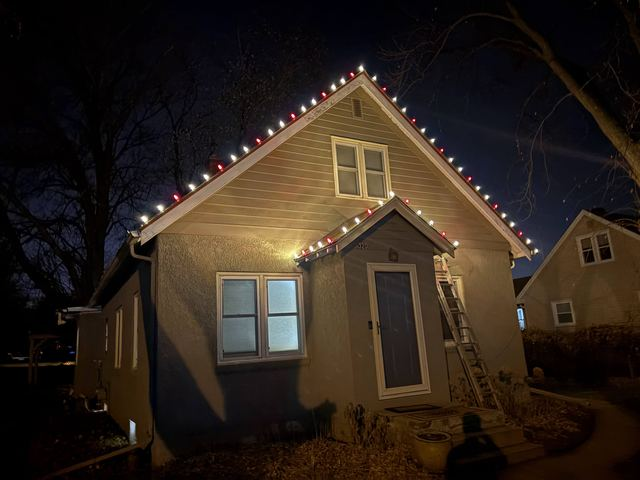
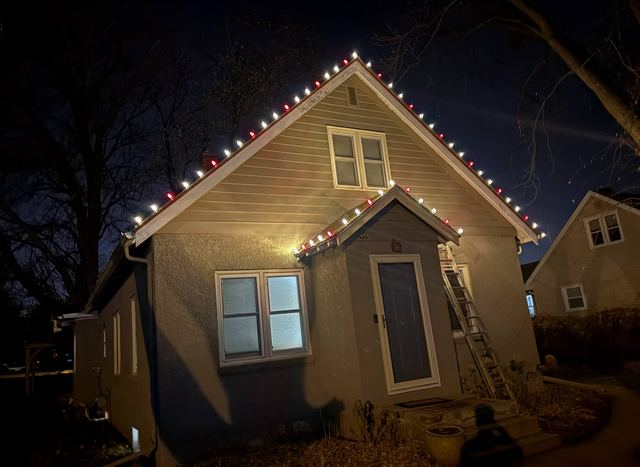
Weave the two photos into the Christmas page as visual accents
Per the owner: no "here's some jobs we did" framing and no gallery
button (these are the only holiday photos, so a gallery link
over-promised). The captioned "Real installs on real homes" two-up
section is gone. Instead, the craftsman-gables shot is a full-width
chrome-less photo break between the benefits and reviews sections, and
the candy-cane bungalow sits mid-article after the intro paragraph, so
there's something to look at while reading.

Also straightened the bungalow photo at the source — the camera was
rolled about 2.5 degrees, so every vertical (door frame, windows,
corners) leaned. Rotated and cropped to the largest clean rectangle at
full resolution; its responsive derivatives regenerated, so the gallery
copy is straightened too.

diff --git a/services/christmas-light-installation.html b/services/christmas-light-installation.html
@@ -128,15 +128,7 @@
   </section>
   <section>
     <div class="container">
-      <div class="section-head center">
-        <span class="eyebrow">Our work</span>
-        <h2>Real installs on real homes</h2>
-      </div>
-      <div class="grid cols-2 mt-3">
-        <div class="reveal"><div class="photo " style="aspect-ratio:4/3" role="img" aria-label="Red and white holiday lights installed along a bungalow's roofline at night"><span class="imgph" aria-hidden="true"><span class="ph-label"><svg viewBox="0 0 24 24" fill="none" stroke="currentColor" stroke-width="1.9" stroke-linecap="round" stroke-linejoin="round" aria-hidden="true"><rect x="3" y="4" width="18" height="16" rx="2"/><circle cx="8.5" cy="9.5" r="1.5"/><path d="m4 17 5-5 4 4 3-3 4 4"/></svg><br>Red and white holiday lights installed along a bungalow's roofline at night</span></span><picture><source type="image/webp" srcset="../assets/img/xmas-lights-candy-cane-640w.webp 640w, ../assets/img/xmas-lights-candy-cane-1200w.webp 1200w" sizes="100vw"><img class="" src="../assets/img/xmas-lights-candy-cane-1200w.jpg" srcset="../assets/img/xmas-lights-candy-cane-640w.jpg 640w, ../assets/img/xmas-lights-candy-cane-1200w.jpg 1200w" sizes="100vw" alt="Red and white holiday lights installed along a bungalow's roofline at night" width="1200" height="900" loading="lazy" decoding="async" onerror="this.remove()"></picture></div></div>
-        <div class="reveal" data-delay="1"><div class="photo " style="aspect-ratio:4/3" role="img" aria-label="White holiday lights tracing the gables of a craftsman-style home above a snow-covered driveway"><span class="imgph" aria-hidden="true"><span class="ph-label"><svg viewBox="0 0 24 24" fill="none" stroke="currentColor" stroke-width="1.9" stroke-linecap="round" stroke-linejoin="round" aria-hidden="true"><rect x="3" y="4" width="18" height="16" rx="2"/><circle cx="8.5" cy="9.5" r="1.5"/><path d="m4 17 5-5 4 4 3-3 4 4"/></svg><br>White holiday lights tracing the gables of a craftsman-style home above a snow-covered driveway</span></span><picture><source type="image/webp" srcset="../assets/img/xmas-lights-craftsman-gables-640w.webp 640w, ../assets/img/xmas-lights-craftsman-gables-1200w.webp 1200w" sizes="100vw"><img class="" src="../assets/img/xmas-lights-craftsman-gables-1200w.jpg" srcset="../assets/img/xmas-lights-craftsman-gables-640w.jpg 640w, ../assets/img/xmas-lights-craftsman-gables-1200w.jpg 1200w" sizes="100vw" alt="White holiday lights tracing the gables of a craftsman-style home above a snow-covered driveway" width="1200" height="900" loading="lazy" decoding="async" onerror="this.remove()"></picture></div></div>
-      </div>
-      <div class="center mt-3"><a class="btn btn-ghost" href="../gallery.html">See the full gallery <svg viewBox="0 0 24 24" fill="none" stroke="currentColor" stroke-width="1.9" stroke-linecap="round" stroke-linejoin="round" aria-hidden="true"><path d="M5 12h14M13 6l6 6-6 6"/></svg></a></div>
+      <div class="reveal"><div class="photo " style="aspect-ratio:21/9" role="img" aria-label="White holiday lights tracing the gables of a craftsman-style home above a snow-covered driveway"><span class="imgph" aria-hidden="true"><span class="ph-label"><svg viewBox="0 0 24 24" fill="none" stroke="currentColor" stroke-width="1.9" stroke-linecap="round" stroke-linejoin="round" aria-hidden="true"><rect x="3" y="4" width="18" height="16" rx="2"/><circle cx="8.5" cy="9.5" r="1.5"/><path d="m4 17 5-5 4 4 3-3 4 4"/></svg><br>White holiday lights tracing the gables of a craftsman-style home above a snow-covered driveway</span></span><picture><source type="image/webp" srcset="../assets/img/xmas-lights-craftsman-gables-640w.webp 640w, ../assets/img/xmas-lights-craftsman-gables-1200w.webp 1200w" sizes="100vw"><img class="" src="../assets/img/xmas-lights-craftsman-gables-1200w.jpg" srcset="../assets/img/xmas-lights-craftsman-gables-640w.jpg 640w, ../assets/img/xmas-lights-craftsman-gables-1200w.jpg 1200w" sizes="100vw" alt="White holiday lights tracing the gables of a craftsman-style home above a snow-covered driveway" width="1200" height="900" loading="lazy" decoding="async" onerror="this.remove()"></picture></div></div>
     </div>
   </section>
 
@@ -161,6 +153,7 @@
         <div class="prose reveal">
           <h2 class="mt-0">Christmas Light Installation at Barta Window Washing</h2>
           <p>The magic of a beautifully lit home — without a single trip up a frozen ladder. Barta designs a custom holiday display for your rooflines, walkways, trees, and shrubs, installs premium commercial-grade lighting, and keeps it shining all season. When the holidays end, we take everything down and store it for next year. You enjoy the lights; we handle everything else.</p>
+          <div style="margin:26px 0"><div class="photo " style="aspect-ratio:3/2" role="img" aria-label="Red and white holiday lights installed along a bungalow's roofline at night"><span class="imgph" aria-hidden="true"><span class="ph-label"><svg viewBox="0 0 24 24" fill="none" stroke="currentColor" stroke-width="1.9" stroke-linecap="round" stroke-linejoin="round" aria-hidden="true"><rect x="3" y="4" width="18" height="16" rx="2"/><circle cx="8.5" cy="9.5" r="1.5"/><path d="m4 17 5-5 4 4 3-3 4 4"/></svg><br>Red and white holiday lights installed along a bungalow's roofline at night</span></span><picture><source type="image/webp" srcset="../assets/img/xmas-lights-candy-cane-640w.webp 640w, ../assets/img/xmas-lights-candy-cane-1200w.webp 1200w" sizes="100vw"><img class="" src="../assets/img/xmas-lights-candy-cane-1200w.jpg" srcset="../assets/img/xmas-lights-candy-cane-640w.jpg 640w, ../assets/img/xmas-lights-candy-cane-1200w.jpg 1200w" sizes="100vw" alt="Red and white holiday lights installed along a bungalow's roofline at night" width="1200" height="877" loading="lazy" decoding="async" onerror="this.remove()"></picture></div></div>
           <h3>The benefits you'll notice</h3>
           <ul class="checklist"><li><svg viewBox="0 0 24 24" fill="none" stroke="currentColor" stroke-width="1.9" stroke-linecap="round" stroke-linejoin="round" aria-hidden="true"><circle cx="12" cy="12" r="9"/><path d="m8.5 12 2.5 2.5 4.5-5"/></svg> <span><strong>Custom-cut strands:</strong> Every strand is measured and cut to your roofline and peaks — no extra lights or cords hanging off your home.</span></li><li><svg viewBox="0 0 24 24" fill="none" stroke="currentColor" stroke-width="1.9" stroke-linecap="round" stroke-linejoin="round" aria-hidden="true"><circle cx="12" cy="12" r="9"/><path d="m8.5 12 2.5 2.5 4.5-5"/></svg> <span><strong>Premium commercial-grade LED bulbs:</strong> Bright, energy-efficient LED bulbs built to outlast a Minnesota winter and look sharp season after season.</span></li><li><svg viewBox="0 0 24 24" fill="none" stroke="currentColor" stroke-width="1.9" stroke-linecap="round" stroke-linejoin="round" aria-hidden="true"><circle cx="12" cy="12" r="9"/><path d="m8.5 12 2.5 2.5 4.5-5"/></svg> <span><strong>Takedown &amp; storage included:</strong> When the season's over, we take it all down and store it for you — built into your price, not an extra add-on.</span></li><li><svg viewBox="0 0 24 24" fill="none" stroke="currentColor" stroke-width="1.9" stroke-linecap="round" stroke-linejoin="round" aria-hidden="true"><circle cx="12" cy="12" r="9"/><path d="m8.5 12 2.5 2.5 4.5-5"/></svg> <span><strong>Clips that last:</strong> Heavy-duty clips grip any roofline, shingle, or gutter without damage — built to hold through the hardest winter months.</span></li><li><svg viewBox="0 0 24 24" fill="none" stroke="currentColor" stroke-width="1.9" stroke-linecap="round" stroke-linejoin="round" aria-hidden="true"><circle cx="12" cy="12" r="9"/><path d="m8.5 12 2.5 2.5 4.5-5"/></svg> <span><strong>Proper safety equipment:</strong> Our insured crew climbs so you don't have to — full safety gear every time, so nobody's risking a fall on an icy ladder.</span></li><li><svg viewBox="0 0 24 24" fill="none" stroke="currentColor" stroke-width="1.9" stroke-linecap="round" stroke-linejoin="round" aria-hidden="true"><circle cx="12" cy="12" r="9"/><path d="m8.5 12 2.5 2.5 4.5-5"/></svg> <span><strong>Upfront, honest pricing:</strong> Clear pricing before we start — no surprise fees and no pressure, just an honest quote for a beautifully lit home.</span></li></ul>
           <h3>What's included</h3>

diff --git a/gallery.html b/gallery.html
@@ -114,7 +114,7 @@
   <span class="ba-handle"></span>
   <span class="ba-knob"><svg viewBox="0 0 24 24" fill="none" stroke="currentColor" stroke-width="1.9" stroke-linecap="round" stroke-linejoin="round" aria-hidden="true"><path d="M12 3v18M8 7 4 11l4 4M16 7l4 4-4 4"/></svg></span>
   <input class="ba-range" type="range" min="0" max="100" value="50" aria-label="Reveal more of the before or after image">
-</div></figure><figure class="reveal"><picture><source type="image/webp" srcset="assets/img/svc-hand-scrubbing-640w.webp 640w, assets/img/svc-hand-scrubbing-1200w.webp 1200w" sizes="(max-width: 760px) 50vw, 33vw"><img class="" src="assets/img/svc-hand-scrubbing-1200w.jpg" srcset="assets/img/svc-hand-scrubbing-640w.jpg 640w, assets/img/svc-hand-scrubbing-1200w.jpg 1200w" sizes="(max-width: 760px) 50vw, 33vw" alt="Hand-scrubbing a window pane with an abrasive pad" width="1126" height="1499" loading="lazy" decoding="async"></picture></figure><figure class="reveal"><picture><source type="image/webp" srcset="assets/img/svc-christmas-light-installation-640w.webp 640w, assets/img/svc-christmas-light-installation-1200w.webp 1200w" sizes="(max-width: 760px) 50vw, 33vw"><img class="" src="assets/img/svc-christmas-light-installation-1200w.jpg" srcset="assets/img/svc-christmas-light-installation-640w.jpg 640w, assets/img/svc-christmas-light-installation-1200w.jpg 1200w" sizes="(max-width: 760px) 50vw, 33vw" alt="Warm white holiday lights installed along a home's roofline at night" width="1200" height="1600" loading="lazy" decoding="async"></picture></figure><figure class="reveal"><picture><source type="image/webp" srcset="assets/img/xmas-lights-candy-cane-640w.webp 640w, assets/img/xmas-lights-candy-cane-1200w.webp 1200w" sizes="(max-width: 760px) 50vw, 33vw"><img class="" src="assets/img/xmas-lights-candy-cane-1200w.jpg" srcset="assets/img/xmas-lights-candy-cane-640w.jpg 640w, assets/img/xmas-lights-candy-cane-1200w.jpg 1200w" sizes="(max-width: 760px) 50vw, 33vw" alt="Red and white holiday lights installed along a bungalow's roofline at night" width="1200" height="900" loading="lazy" decoding="async"></picture></figure><figure class="reveal"><picture><source type="image/webp" srcset="assets/img/xmas-lights-craftsman-gables-640w.webp 640w, assets/img/xmas-lights-craftsman-gables-1200w.webp 1200w" sizes="(max-width: 760px) 50vw, 33vw"><img class="" src="assets/img/xmas-lights-craftsman-gables-1200w.jpg" srcset="assets/img/xmas-lights-craftsman-gables-640w.jpg 640w, assets/img/xmas-lights-craftsman-gables-1200w.jpg 1200w" sizes="(max-width: 760px) 50vw, 33vw" alt="White holiday lights tracing the gables of a craftsman-style home above a snow-covered driveway" width="1200" height="900" loading="lazy" decoding="async"></picture></figure><figure class="gallery-ba reveal"><div class="ba" role="group" aria-label="Before and after comparison slider">
+</div></figure><figure class="reveal"><picture><source type="image/webp" srcset="assets/img/svc-hand-scrubbing-640w.webp 640w, assets/img/svc-hand-scrubbing-1200w.webp 1200w" sizes="(max-width: 760px) 50vw, 33vw"><img class="" src="assets/img/svc-hand-scrubbing-1200w.jpg" srcset="assets/img/svc-hand-scrubbing-640w.jpg 640w, assets/img/svc-hand-scrubbing-1200w.jpg 1200w" sizes="(max-width: 760px) 50vw, 33vw" alt="Hand-scrubbing a window pane with an abrasive pad" width="1126" height="1499" loading="lazy" decoding="async"></picture></figure><figure class="reveal"><picture><source type="image/webp" srcset="assets/img/svc-christmas-light-installation-640w.webp 640w, assets/img/svc-christmas-light-installation-1200w.webp 1200w" sizes="(max-width: 760px) 50vw, 33vw"><img class="" src="assets/img/svc-christmas-light-installation-1200w.jpg" srcset="assets/img/svc-christmas-light-installation-640w.jpg 640w, assets/img/svc-christmas-light-installation-1200w.jpg 1200w" sizes="(max-width: 760px) 50vw, 33vw" alt="Warm white holiday lights installed along a home's roofline at night" width="1200" height="1600" loading="lazy" decoding="async"></picture></figure><figure class="reveal"><picture><source type="image/webp" srcset="assets/img/xmas-lights-candy-cane-640w.webp 640w, assets/img/xmas-lights-candy-cane-1200w.webp 1200w" sizes="(max-width: 760px) 50vw, 33vw"><img class="" src="assets/img/xmas-lights-candy-cane-1200w.jpg" srcset="assets/img/xmas-lights-candy-cane-640w.jpg 640w, assets/img/xmas-lights-candy-cane-1200w.jpg 1200w" sizes="(max-width: 760px) 50vw, 33vw" alt="Red and white holiday lights installed along a bungalow's roofline at night" width="1200" height="877" loading="lazy" decoding="async"></picture></figure><figure class="reveal"><picture><source type="image/webp" srcset="assets/img/xmas-lights-craftsman-gables-640w.webp 640w, assets/img/xmas-lights-craftsman-gables-1200w.webp 1200w" sizes="(max-width: 760px) 50vw, 33vw"><img class="" src="assets/img/xmas-lights-craftsman-gables-1200w.jpg" srcset="assets/img/xmas-lights-craftsman-gables-640w.jpg 640w, assets/img/xmas-lights-craftsman-gables-1200w.jpg 1200w" sizes="(max-width: 760px) 50vw, 33vw" alt="White holiday lights tracing the gables of a craftsman-style home above a snow-covered driveway" width="1200" height="900" loading="lazy" decoding="async"></picture></figure><figure class="gallery-ba reveal"><div class="ba" role="group" aria-label="Before and after comparison slider">
   <picture><source type="image/webp" srcset="assets/img/ba-gutter-before-640w.webp 640w, assets/img/ba-gutter-before-1200w.webp 1200w" sizes="(max-width: 760px) 50vw, 33vw"><img class="ba-img ba-before" src="assets/img/ba-gutter-before-1200w.jpg" srcset="assets/img/ba-gutter-before-640w.jpg 640w, assets/img/ba-gutter-before-1200w.jpg 1200w" sizes="(max-width: 760px) 50vw, 33vw" alt="Before professional cleaning — visible dirt, algae, and water spots" width="1100" height="1466" loading="lazy" decoding="async"></picture>
   <picture><source type="image/webp" srcset="assets/img/ba-gutter-after-640w.webp 640w, assets/img/ba-gutter-after-1200w.webp 1200w" sizes="(max-width: 760px) 50vw, 33vw"><img class="ba-img ba-after" src="assets/img/ba-gutter-after-1200w.jpg" srcset="assets/img/ba-gutter-after-640w.jpg 640w, assets/img/ba-gutter-after-1200w.jpg 1200w" sizes="(max-width: 760px) 50vw, 33vw" alt="After Barta professional cleaning — bright, spotless, like-new surface" width="1100" height="1466" loading="lazy" decoding="async"></picture>
   <span class="ba-label before">Before</span>

diff --git a/services/exterior-window-cleaning.html b/services/exterior-window-cleaning.html
@@ -153,6 +153,7 @@
         <div class="prose reveal">
           <h2 class="mt-0">Exterior Window Cleaning at Barta Window Washing</h2>
           <p>The outside of your glass takes the brunt of Minnesota's weather — pollen, rain spots, and road grime dull your view from the street and from inside. Barta's exterior window cleaning uses whatever approach fits each window best — hand-detailing, a ladder, or a water-fed pole for second-story and hard-to-reach glass — finishing with a wipe-down of every sill and frame so the whole window looks new.</p>
+          
           <h3>The benefits you'll notice</h3>
           <ul class="checklist"><li><svg viewBox="0 0 24 24" fill="none" stroke="currentColor" stroke-width="1.9" stroke-linecap="round" stroke-linejoin="round" aria-hidden="true"><circle cx="12" cy="12" r="9"/><path d="m8.5 12 2.5 2.5 4.5-5"/></svg> <span><strong>Streak-free guarantee:</strong> We don't leave until every pane is spotless — or we come back free.</span></li><li><svg viewBox="0 0 24 24" fill="none" stroke="currentColor" stroke-width="1.9" stroke-linecap="round" stroke-linejoin="round" aria-hidden="true"><circle cx="12" cy="12" r="9"/><path d="m8.5 12 2.5 2.5 4.5-5"/></svg> <span><strong>Water-fed pole technology:</strong> Purified water rinses glass cleaner and keeps it clearer, longer.</span></li><li><svg viewBox="0 0 24 24" fill="none" stroke="currentColor" stroke-width="1.9" stroke-linecap="round" stroke-linejoin="round" aria-hidden="true"><circle cx="12" cy="12" r="9"/><path d="m8.5 12 2.5 2.5 4.5-5"/></svg> <span><strong>Safer upper-story reach:</strong> Water-fed poles mean less ladder work on second-story glass — safer for our crew and your landscaping.</span></li><li><svg viewBox="0 0 24 24" fill="none" stroke="currentColor" stroke-width="1.9" stroke-linecap="round" stroke-linejoin="round" aria-hidden="true"><circle cx="12" cy="12" r="9"/><path d="m8.5 12 2.5 2.5 4.5-5"/></svg> <span><strong>Frames &amp; sills detailed:</strong> We hand-wipe every frame and sill on every visit — the parts most companies skip.</span></li></ul>
           <h3>What's included</h3>

diff --git a/services/commercial-cleaning.html b/services/commercial-cleaning.html
@@ -153,6 +153,7 @@
         <div class="prose reveal">
           <h2 class="mt-0">Commercial Cleaning at Barta Window Washing</h2>
           <p>Your building is the first impression every customer, tenant, and partner forms about your business. Streaked windows and grimy entrances quietly cost you — clean ones quietly win. Barta delivers dependable, scheduled commercial cleaning that keeps your property looking its absolute best, without you having to manage it. We work around your hours, carry full insurance coverage, and assign a single account contact so service is effortless.</p>
+          
           <h3>The benefits you'll notice</h3>
           <ul class="checklist"><li><svg viewBox="0 0 24 24" fill="none" stroke="currentColor" stroke-width="1.9" stroke-linecap="round" stroke-linejoin="round" aria-hidden="true"><circle cx="12" cy="12" r="9"/><path d="m8.5 12 2.5 2.5 4.5-5"/></svg> <span><strong>One reliable vendor:</strong> Every building, every service, one point of contact.</span></li><li><svg viewBox="0 0 24 24" fill="none" stroke="currentColor" stroke-width="1.9" stroke-linecap="round" stroke-linejoin="round" aria-hidden="true"><circle cx="12" cy="12" r="9"/><path d="m8.5 12 2.5 2.5 4.5-5"/></svg> <span><strong>Fully insured:</strong> Comprehensive insurance coverage on every job, for your property and our team.</span></li><li><svg viewBox="0 0 24 24" fill="none" stroke="currentColor" stroke-width="1.9" stroke-linecap="round" stroke-linejoin="round" aria-hidden="true"><circle cx="12" cy="12" r="9"/><path d="m8.5 12 2.5 2.5 4.5-5"/></svg> <span><strong>Flexible scheduling:</strong> We work around your hours and your tenants, day or night.</span></li><li><svg viewBox="0 0 24 24" fill="none" stroke="currentColor" stroke-width="1.9" stroke-linecap="round" stroke-linejoin="round" aria-hidden="true"><circle cx="12" cy="12" r="9"/><path d="m8.5 12 2.5 2.5 4.5-5"/></svg> <span><strong>Fast quote turnaround:</strong> Clear, upfront commercial quotes typically within 24 hours.</span></li></ul>
           <h3>What's included</h3>

diff --git a/services/interior-window-cleaning.html b/services/interior-window-cleaning.html
@@ -153,6 +153,7 @@
         <div class="prose reveal">
           <h2 class="mt-0">Interior Window Cleaning at Barta Window Washing</h2>
           <p>Interior glass takes a different kind of wear than the outside — fingerprints on the slider, dust along the sill, everyday grime that builds up on the glass you're actually looking through all day. Barta hand-details every pane, frame, and sill room by room, laying down drop cloths and working carefully so your floors and furnishings stay protected the whole time.</p>
+          
           <h3>The benefits you'll notice</h3>
           <ul class="checklist"><li><svg viewBox="0 0 24 24" fill="none" stroke="currentColor" stroke-width="1.9" stroke-linecap="round" stroke-linejoin="round" aria-hidden="true"><circle cx="12" cy="12" r="9"/><path d="m8.5 12 2.5 2.5 4.5-5"/></svg> <span><strong>Streak-free guarantee:</strong> We don't leave until every pane is spotless — or we come back free.</span></li><li><svg viewBox="0 0 24 24" fill="none" stroke="currentColor" stroke-width="1.9" stroke-linecap="round" stroke-linejoin="round" aria-hidden="true"><circle cx="12" cy="12" r="9"/><path d="m8.5 12 2.5 2.5 4.5-5"/></svg> <span><strong>Furniture-safe process:</strong> Drop cloths and careful technique keep your floors and furnishings protected.</span></li><li><svg viewBox="0 0 24 24" fill="none" stroke="currentColor" stroke-width="1.9" stroke-linecap="round" stroke-linejoin="round" aria-hidden="true"><circle cx="12" cy="12" r="9"/><path d="m8.5 12 2.5 2.5 4.5-5"/></svg> <span><strong>Every sill &amp; frame detailed:</strong> We hand-wipe the parts most companies skip.</span></li><li><svg viewBox="0 0 24 24" fill="none" stroke="currentColor" stroke-width="1.9" stroke-linecap="round" stroke-linejoin="round" aria-hidden="true"><circle cx="12" cy="12" r="9"/><path d="m8.5 12 2.5 2.5 4.5-5"/></svg> <span><strong>We work around your home:</strong> Light furniture, blinds, pets, kids — we adapt to whatever's happening in your house that day.</span></li></ul>
           <h3>What's included</h3>

diff --git a/services/track-detailing.html b/services/track-detailing.html
@@ -153,6 +153,7 @@
         <div class="prose reveal">
           <h2 class="mt-0">Track Detailing at Barta Window Washing</h2>
           <p>Spotless glass still looks unfinished sitting above a track full of dirt and debris. We open the window, vacuum out the dry debris, work in a cleaning solution, hand-scrub every channel with a brush, vacuum up the wet residue, then hand-detail and wipe each track clean — so your windows look as good up close as they do from across the room, and glide smoothly again.</p>
+          
           <h3>The benefits you'll notice</h3>
           <ul class="checklist"><li><svg viewBox="0 0 24 24" fill="none" stroke="currentColor" stroke-width="1.9" stroke-linecap="round" stroke-linejoin="round" aria-hidden="true"><circle cx="12" cy="12" r="9"/><path d="m8.5 12 2.5 2.5 4.5-5"/></svg> <span><strong>Built-up grime, gone:</strong> Years of dirt, dead bugs, and grit removed from every track.</span></li><li><svg viewBox="0 0 24 24" fill="none" stroke="currentColor" stroke-width="1.9" stroke-linecap="round" stroke-linejoin="round" aria-hidden="true"><circle cx="12" cy="12" r="9"/><path d="m8.5 12 2.5 2.5 4.5-5"/></svg> <span><strong>Smoother-sliding windows:</strong> Clean tracks mean windows and screens glide the way they should.</span></li><li><svg viewBox="0 0 24 24" fill="none" stroke="currentColor" stroke-width="1.9" stroke-linecap="round" stroke-linejoin="round" aria-hidden="true"><circle cx="12" cy="12" r="9"/><path d="m8.5 12 2.5 2.5 4.5-5"/></svg> <span><strong>Hand-detailed, not just vacuumed:</strong> We get into the corners other services skip.</span></li><li><svg viewBox="0 0 24 24" fill="none" stroke="currentColor" stroke-width="1.9" stroke-linecap="round" stroke-linejoin="round" aria-hidden="true"><circle cx="12" cy="12" r="9"/><path d="m8.5 12 2.5 2.5 4.5-5"/></svg> <span><strong>Pairs perfectly with window cleaning:</strong> The finishing touch that makes freshly cleaned glass look complete.</span></li></ul>
           <h3>What's included</h3>

diff --git a/services/house-washing.html b/services/house-washing.html
@@ -153,6 +153,7 @@
         <div class="prose reveal">
           <h2 class="mt-0">House Washing at Barta Window Washing</h2>
           <p>That green and gray film creeping across the north side of your home is living algae — and rinsing it off only hides it for a few weeks. Barta's house washing combines low-pressure soft washing with professional-grade, plant-safe solutions that kill organic growth at the source, so your siding stays cleaner far longer and looks years younger.</p>
+          
           <h3>The benefits you'll notice</h3>
           <ul class="checklist"><li><svg viewBox="0 0 24 24" fill="none" stroke="currentColor" stroke-width="1.9" stroke-linecap="round" stroke-linejoin="round" aria-hidden="true"><circle cx="12" cy="12" r="9"/><path d="m8.5 12 2.5 2.5 4.5-5"/></svg> <span><strong>Whole-home refresh:</strong> Siding, soffits, fascia, trim, and eaves cleaned top to bottom.</span></li><li><svg viewBox="0 0 24 24" fill="none" stroke="currentColor" stroke-width="1.9" stroke-linecap="round" stroke-linejoin="round" aria-hidden="true"><circle cx="12" cy="12" r="9"/><path d="m8.5 12 2.5 2.5 4.5-5"/></svg> <span><strong>Safe for every surface:</strong> Low-pressure soft washing protects siding, paint, and landscaping.</span></li><li><svg viewBox="0 0 24 24" fill="none" stroke="currentColor" stroke-width="1.9" stroke-linecap="round" stroke-linejoin="round" aria-hidden="true"><circle cx="12" cy="12" r="9"/><path d="m8.5 12 2.5 2.5 4.5-5"/></svg> <span><strong>Kills the green, not just rinses:</strong> Our solution treats algae and mildew at the root.</span></li><li><svg viewBox="0 0 24 24" fill="none" stroke="currentColor" stroke-width="1.9" stroke-linecap="round" stroke-linejoin="round" aria-hidden="true"><circle cx="12" cy="12" r="9"/><path d="m8.5 12 2.5 2.5 4.5-5"/></svg> <span><strong>Boost curb appeal &amp; value:</strong> The single highest-impact exterior upgrade you can make.</span></li></ul>
           <h3>What's included</h3>

diff --git a/services/pressure-washing.html b/services/pressure-washing.html
@@ -153,6 +153,7 @@
         <div class="prose reveal">
           <h2 class="mt-0">Pressure Washing at Barta Window Washing</h2>
           <p>Concrete, brick, and pavers collect oil, tire marks, algae, and embedded grime that make even a well-kept home look tired. Barta's pressure washing uses commercial equipment and the right pressure for each surface — plus surface cleaners that leave wide, even, stripe-free results across driveways, patios, sidewalks, and pool decks.</p>
+          
           <h3>The benefits you'll notice</h3>
           <ul class="checklist"><li><svg viewBox="0 0 24 24" fill="none" stroke="currentColor" stroke-width="1.9" stroke-linecap="round" stroke-linejoin="round" aria-hidden="true"><circle cx="12" cy="12" r="9"/><path d="m8.5 12 2.5 2.5 4.5-5"/></svg> <span><strong>Like-new surfaces:</strong> Driveways, patios, and walkways come back to their original color.</span></li><li><svg viewBox="0 0 24 24" fill="none" stroke="currentColor" stroke-width="1.9" stroke-linecap="round" stroke-linejoin="round" aria-hidden="true"><circle cx="12" cy="12" r="9"/><path d="m8.5 12 2.5 2.5 4.5-5"/></svg> <span><strong>Surface-safe pressure:</strong> We dial pressure and nozzles to each material — no etching or gouging.</span></li><li><svg viewBox="0 0 24 24" fill="none" stroke="currentColor" stroke-width="1.9" stroke-linecap="round" stroke-linejoin="round" aria-hidden="true"><circle cx="12" cy="12" r="9"/><path d="m8.5 12 2.5 2.5 4.5-5"/></svg> <span><strong>Oil &amp; rust treatment:</strong> Targeted pre-treatment lifts stains pressure alone can't.</span></li><li><svg viewBox="0 0 24 24" fill="none" stroke="currentColor" stroke-width="1.9" stroke-linecap="round" stroke-linejoin="round" aria-hidden="true"><circle cx="12" cy="12" r="9"/><path d="m8.5 12 2.5 2.5 4.5-5"/></svg> <span><strong>Curb appeal that lasts:</strong> Clean hardscapes instantly lift the look and value of your home.</span></li></ul>
           <h3>What's included</h3>

diff --git a/services/hard-water-stain-removal.html b/services/hard-water-stain-removal.html
@@ -153,6 +153,7 @@
         <div class="prose reveal">
           <h2 class="mt-0">Hard Water Stain Removal at Barta Window Washing</h2>
           <p>Sprinkler overspray, runoff, and Minnesota's hard water leave behind mineral deposits that bond to glass and fog it permanently if ignored. Barta uses professional restoration compounds and proven technique to dissolve and lift these deposits — bringing back clarity that standard window cleaning simply cannot — and we can apply a protective treatment to slow future buildup.</p>
+          
           <h3>The benefits you'll notice</h3>
           <ul class="checklist"><li><svg viewBox="0 0 24 24" fill="none" stroke="currentColor" stroke-width="1.9" stroke-linecap="round" stroke-linejoin="round" aria-hidden="true"><circle cx="12" cy="12" r="9"/><path d="m8.5 12 2.5 2.5 4.5-5"/></svg> <span><strong>Restore clear glass:</strong> Remove the cloudy haze sprinklers and minerals leave behind.</span></li><li><svg viewBox="0 0 24 24" fill="none" stroke="currentColor" stroke-width="1.9" stroke-linecap="round" stroke-linejoin="round" aria-hidden="true"><circle cx="12" cy="12" r="9"/><path d="m8.5 12 2.5 2.5 4.5-5"/></svg> <span><strong>Save the windows:</strong> Far cheaper than replacing etched or stained glass.</span></li><li><svg viewBox="0 0 24 24" fill="none" stroke="currentColor" stroke-width="1.9" stroke-linecap="round" stroke-linejoin="round" aria-hidden="true"><circle cx="12" cy="12" r="9"/><path d="m8.5 12 2.5 2.5 4.5-5"/></svg> <span><strong>Specialized process:</strong> Professional compounds and technique, not guesswork.</span></li><li><svg viewBox="0 0 24 24" fill="none" stroke="currentColor" stroke-width="1.9" stroke-linecap="round" stroke-linejoin="round" aria-hidden="true"><circle cx="12" cy="12" r="9"/><path d="m8.5 12 2.5 2.5 4.5-5"/></svg> <span><strong>Protective options:</strong> Ask about coatings that help repel future spotting.</span></li></ul>
           <h3>What's included</h3>

diff --git a/services/gutter-cleaning.html b/services/gutter-cleaning.html
@@ -153,6 +153,7 @@
         <div class="prose reveal">
           <h2 class="mt-0">Gutter Cleaning at Barta Window Washing</h2>
           <p>Minnesota's freeze-thaw cycles, maple seeds, and autumn leaves turn gutters into clogged troughs that send water where it doesn't belong. Barta clears every gutter and downspout by hand and blower, then flushes the system to confirm proper flow — protecting your fascia, foundation, and landscaping season after season.</p>
+          
           <h3>The benefits you'll notice</h3>
           <ul class="checklist"><li><svg viewBox="0 0 24 24" fill="none" stroke="currentColor" stroke-width="1.9" stroke-linecap="round" stroke-linejoin="round" aria-hidden="true"><circle cx="12" cy="12" r="9"/><path d="m8.5 12 2.5 2.5 4.5-5"/></svg> <span><strong>Protect your foundation:</strong> Free-flowing gutters route water away from your home, not into it.</span></li><li><svg viewBox="0 0 24 24" fill="none" stroke="currentColor" stroke-width="1.9" stroke-linecap="round" stroke-linejoin="round" aria-hidden="true"><circle cx="12" cy="12" r="9"/><path d="m8.5 12 2.5 2.5 4.5-5"/></svg> <span><strong>Hand-cleared gutters:</strong> We clear debris by hand and blower, so nothing stays clogged in the corners.</span></li><li><svg viewBox="0 0 24 24" fill="none" stroke="currentColor" stroke-width="1.9" stroke-linecap="round" stroke-linejoin="round" aria-hidden="true"><circle cx="12" cy="12" r="9"/><path d="m8.5 12 2.5 2.5 4.5-5"/></svg> <span><strong>Downspouts flushed:</strong> We confirm water flows freely from gutter to ground.</span></li><li><svg viewBox="0 0 24 24" fill="none" stroke="currentColor" stroke-width="1.9" stroke-linecap="round" stroke-linejoin="round" aria-hidden="true"><circle cx="12" cy="12" r="9"/><path d="m8.5 12 2.5 2.5 4.5-5"/></svg> <span><strong>Free roof &amp; gutter check:</strong> We'll let you know if we spot any damage on your shingles or gutters.</span></li></ul>
           <h3>What's included</h3>

diff --git a/services/soft-washing.html b/services/soft-washing.html
@@ -153,6 +153,7 @@
         <div class="prose reveal">
           <h2 class="mt-0">Soft Washing at Barta Window Washing</h2>
           <p>High pressure has no place on stucco, screens, or painted surfaces. Soft washing applies specially formulated, biodegradable solutions at low pressure to dissolve algae, mold, mildew, and bacteria — then gently rinses everything clean. It's the method siding manufacturers actually recommend for these delicate surfaces.</p>
+          
           <h3>The benefits you'll notice</h3>
           <ul class="checklist"><li><svg viewBox="0 0 24 24" fill="none" stroke="currentColor" stroke-width="1.9" stroke-linecap="round" stroke-linejoin="round" aria-hidden="true"><circle cx="12" cy="12" r="9"/><path d="m8.5 12 2.5 2.5 4.5-5"/></svg> <span><strong>Damage-free cleaning:</strong> Low pressure means no etched stucco, stripped paint, or damaged siding.</span></li><li><svg viewBox="0 0 24 24" fill="none" stroke="currentColor" stroke-width="1.9" stroke-linecap="round" stroke-linejoin="round" aria-hidden="true"><circle cx="12" cy="12" r="9"/><path d="m8.5 12 2.5 2.5 4.5-5"/></svg> <span><strong>Kills at the root:</strong> We treat algae, mold, and mildew at the source, not just knock it off the surface.</span></li><li><svg viewBox="0 0 24 24" fill="none" stroke="currentColor" stroke-width="1.9" stroke-linecap="round" stroke-linejoin="round" aria-hidden="true"><circle cx="12" cy="12" r="9"/><path d="m8.5 12 2.5 2.5 4.5-5"/></svg> <span><strong>Right chemistry, right surface:</strong> Solutions tuned to each material and the organism we're treating.</span></li><li><svg viewBox="0 0 24 24" fill="none" stroke="currentColor" stroke-width="1.9" stroke-linecap="round" stroke-linejoin="round" aria-hidden="true"><circle cx="12" cy="12" r="9"/><path d="m8.5 12 2.5 2.5 4.5-5"/></svg> <span><strong>Eco-conscious:</strong> Biodegradable detergents and careful plant protection.</span></li></ul>
           <h3>What's included</h3>

diff --git a/services/solar-panel-cleaning.html b/services/solar-panel-cleaning.html
@@ -153,6 +153,7 @@
         <div class="prose reveal">
           <h2 class="mt-0">Solar Panel Cleaning at Barta Window Washing</h2>
           <p>Solar panels are an investment in lower energy bills — but pollen, dust, bird droppings, and Minnesota winter grime form a film that quietly steals output. Barta cleans panels with pure, deionized water and soft, non-abrasive tools that protect the glass and anti-reflective coating, restoring efficiency without scratches or harsh chemicals.</p>
+          
           <h3>The benefits you'll notice</h3>
           <ul class="checklist"><li><svg viewBox="0 0 24 24" fill="none" stroke="currentColor" stroke-width="1.9" stroke-linecap="round" stroke-linejoin="round" aria-hidden="true"><circle cx="12" cy="12" r="9"/><path d="m8.5 12 2.5 2.5 4.5-5"/></svg> <span><strong>Recover lost output:</strong> Dust and grime buildup can quietly reduce how much power your panels produce.</span></li><li><svg viewBox="0 0 24 24" fill="none" stroke="currentColor" stroke-width="1.9" stroke-linecap="round" stroke-linejoin="round" aria-hidden="true"><circle cx="12" cy="12" r="9"/><path d="m8.5 12 2.5 2.5 4.5-5"/></svg> <span><strong>Manufacturer-safe methods:</strong> Pure water and soft tools protect panels and coatings.</span></li><li><svg viewBox="0 0 24 24" fill="none" stroke="currentColor" stroke-width="1.9" stroke-linecap="round" stroke-linejoin="round" aria-hidden="true"><circle cx="12" cy="12" r="9"/><path d="m8.5 12 2.5 2.5 4.5-5"/></svg> <span><strong>Protect your ROI:</strong> Maximize the return on your solar investment.</span></li><li><svg viewBox="0 0 24 24" fill="none" stroke="currentColor" stroke-width="1.9" stroke-linecap="round" stroke-linejoin="round" aria-hidden="true"><circle cx="12" cy="12" r="9"/><path d="m8.5 12 2.5 2.5 4.5-5"/></svg> <span><strong>Safe, insured access:</strong> Trained, fully insured technicians handle the height.</span></li></ul>
           <h3>What's included</h3>
